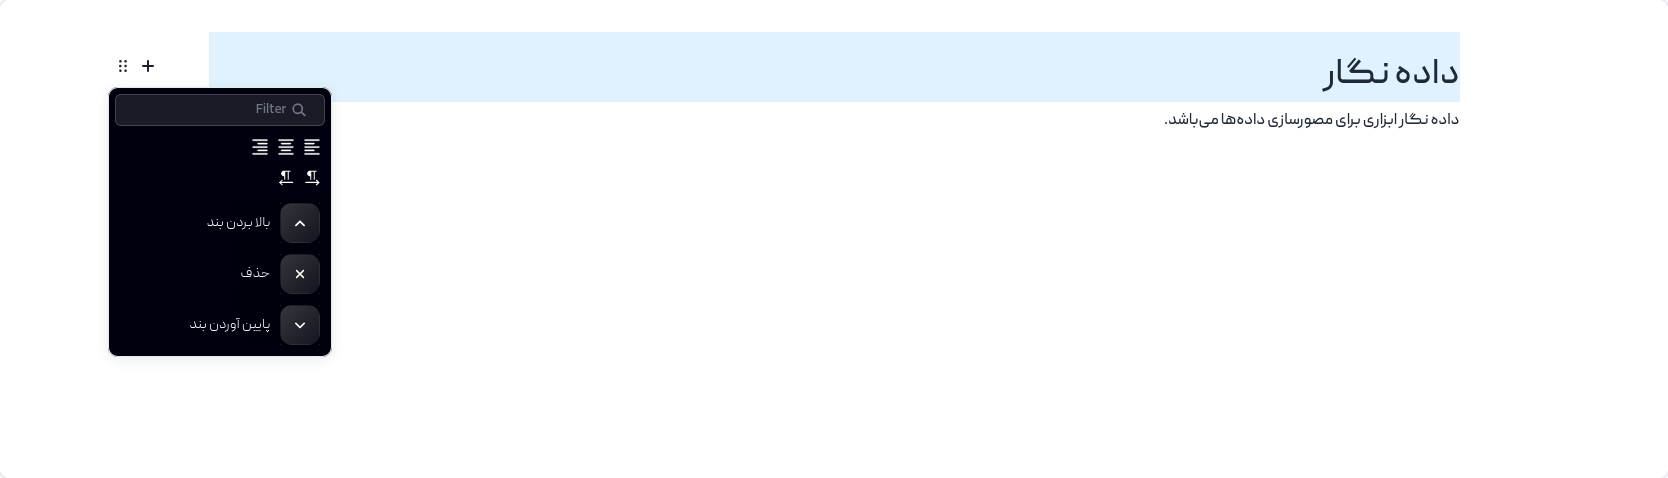
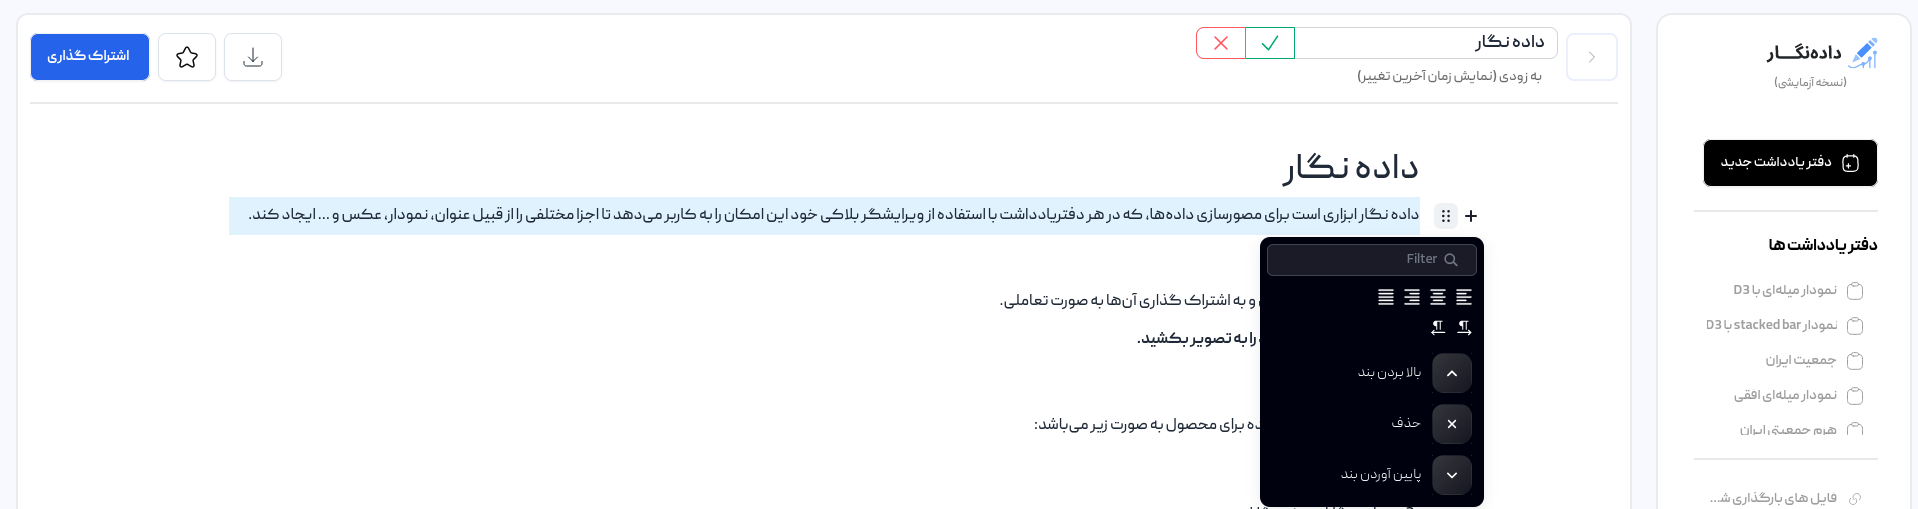
change siteGuide for 0.9.0.0v

diff --git a/docs/siteGuide.md b/docs/siteGuide.md
@@ -39,21 +39,24 @@
 
 <kbd>![](_media/guide/notebook.png)</kbd>
 
-1. نام ایجاد کننده دفتریادداشت
-2. تاریخ آخرین تغییر دفتریادداشت
-3. اشتراک گذاری دفتر یادداشت
-4. انتخاب بلاک
-5. ابزار دفتر یادداشت
-    * جستجو در دفتریادداشت
-    * تاریخجه تغییرات
-    * میانبرها
-    * اطلاعات دفتریادداشت
-6. ذخیره دفتریادداشت در سرور
-7. ذخیره دفتریادداشت در مروگر
-8. بازگشت به داشبورد
-9. جستجو در کل دفتریادداشتها
-10. دریافت فایل دفتریادداشت
-11. نشان کردن دفتریادداشت
+1. انتخاب بلاک
+2. ویرایش نام دفتریادداشت
+3. ایجاد دفتریادداشت جدید
+4. لیست دفتریادداشتها
+5. لیست فایلهای بارگذاری شده در دفتریادداشت (بزودی)
+6. نظرات ثبت شده برای دفتریادداشت (بزودی)
+7. تاریخچه تغییرات دفتریادداشت (بزودی)
+8. کلیدهای میانبر دفتریادداشت (بزودی)
+9. آموزشها (بزودی)
+10. تنظیمات (بزودی)
+11. خروج از داده نگار
+12. جستجو در بلاکها
+13. ذخیره دفتریادداشت در مرورگر
+14. ذخیره دفتریادداشت در سرور
+15. اشتراک گذاری دفتریادداشت
+16. نشان کردن دفتریادداشت
+17. دریافت فایل دفتریادداشت
+18. بازگشت به داشبورد
 
 ### ذخیره دفتریادداشت
 برای ذخیره سازی دفتریادداشت میتوان از دو گزینه **ذخیره در سرور** و **ذخیره در مرورگر** استفاده کرد.

diff --git a/docs/changelog.md b/docs/changelog.md
@@ -16,7 +16,6 @@
 - دفتریادداشت - ویرایش «آپلود فایل» به «بارگذاری فایل»
 - داشبورد - حذف ایجاد دفتریادداشت جدید با کلیک بر روی «راهنمای محصول» و «آموزشها»
 - بهبود شیوه ارسال عکس های پیش نمایش دفترچه
-- داینامیک کردن لاگین کاربر (پشتیبانی از حالت توسعه)
 
 #### تعمیر شده
 - رفع مشکل در نحوه نمایش دفتریادداشت در حالت موبایل
